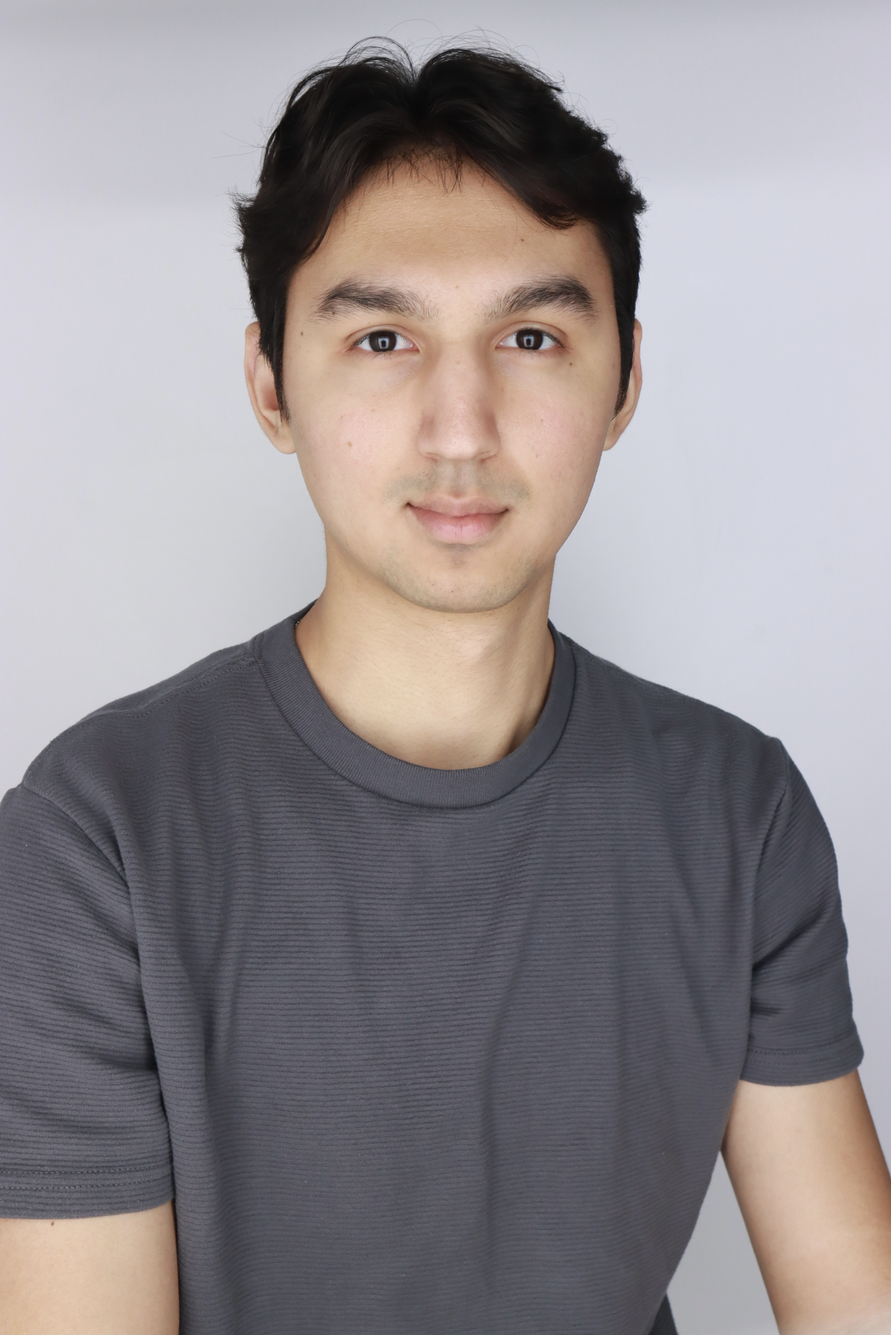
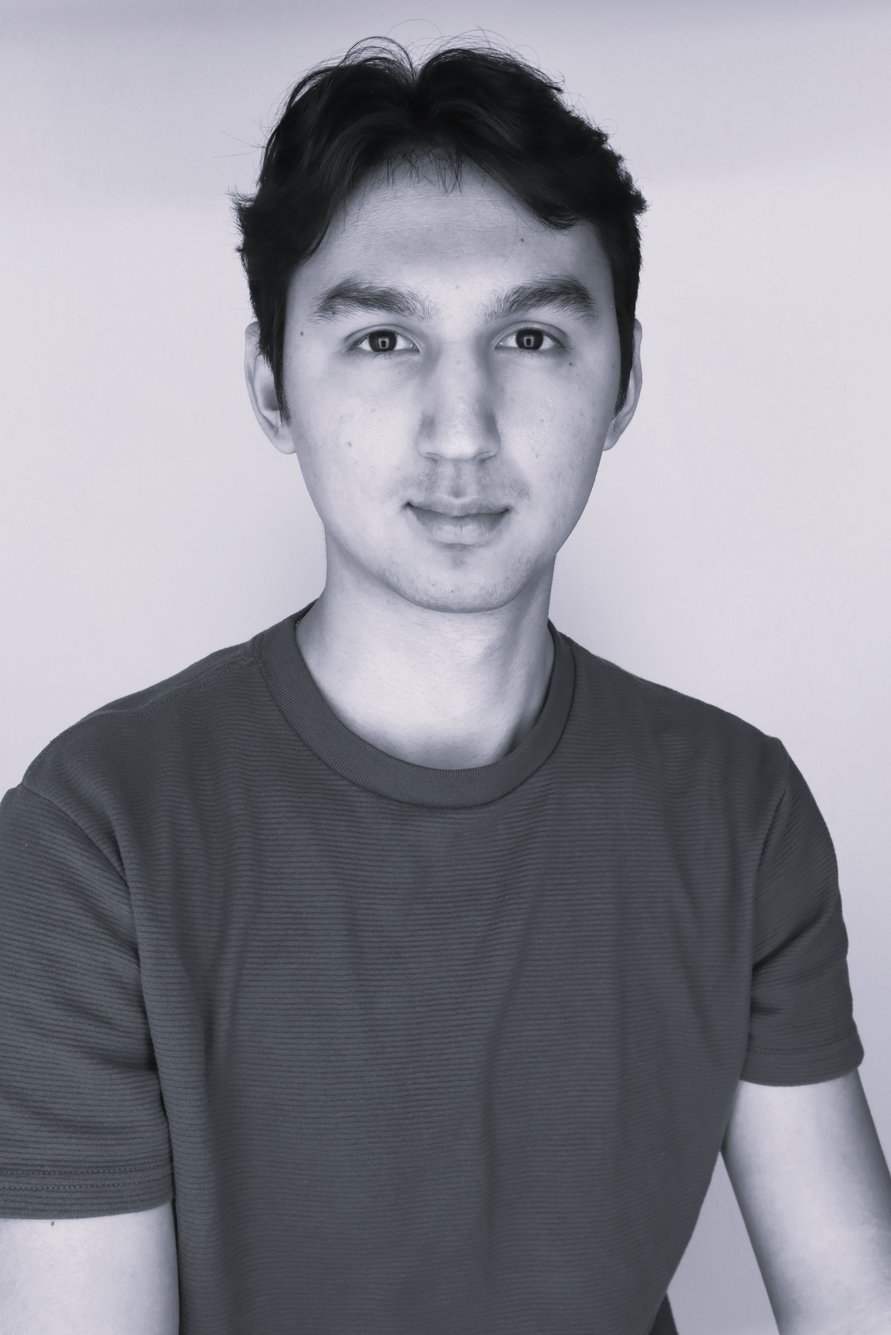
updated styling on author's image

Changed region(s): [[0.2486, 0.0934, 0.7458, 0.5915], [0.8079, 0.7783, 1.0, 1.0], [0.0, 0.9029, 0.2175, 1.0]]

diff --git a/app/globals.css b/app/globals.css
@@ -57,20 +57,8 @@ html {
   object-fit: cover;
   object-position: 50% 5%; 
   position: relative;
-  transition: filter 0.3s;
-  filter: brightness(0.46) sepia(1) hue-rotate(-43deg) saturate(5);
   z-index: 1;
-  border-radius: 3px;
-}
-
-.image-style:hover,
-.image-style:focus {
-  transform: translate(-4px, -4px);
-}
-
-.image-style:hover img,
-.image-style:focus img {
-  filter: none;
+  border-radius: 50%;
 }
 
 .image-style::before {
@@ -80,8 +68,6 @@ html {
   left: 14px;
   width: calc(100% - 8px);
   height: calc(100% - 8px);
-  border: 2px solid #f44336;
-  border-radius: 3px;
   transform: translate(4px, 4px); 
   transition: border 0.5s, transform 0.5s;
   z-index: 0;
